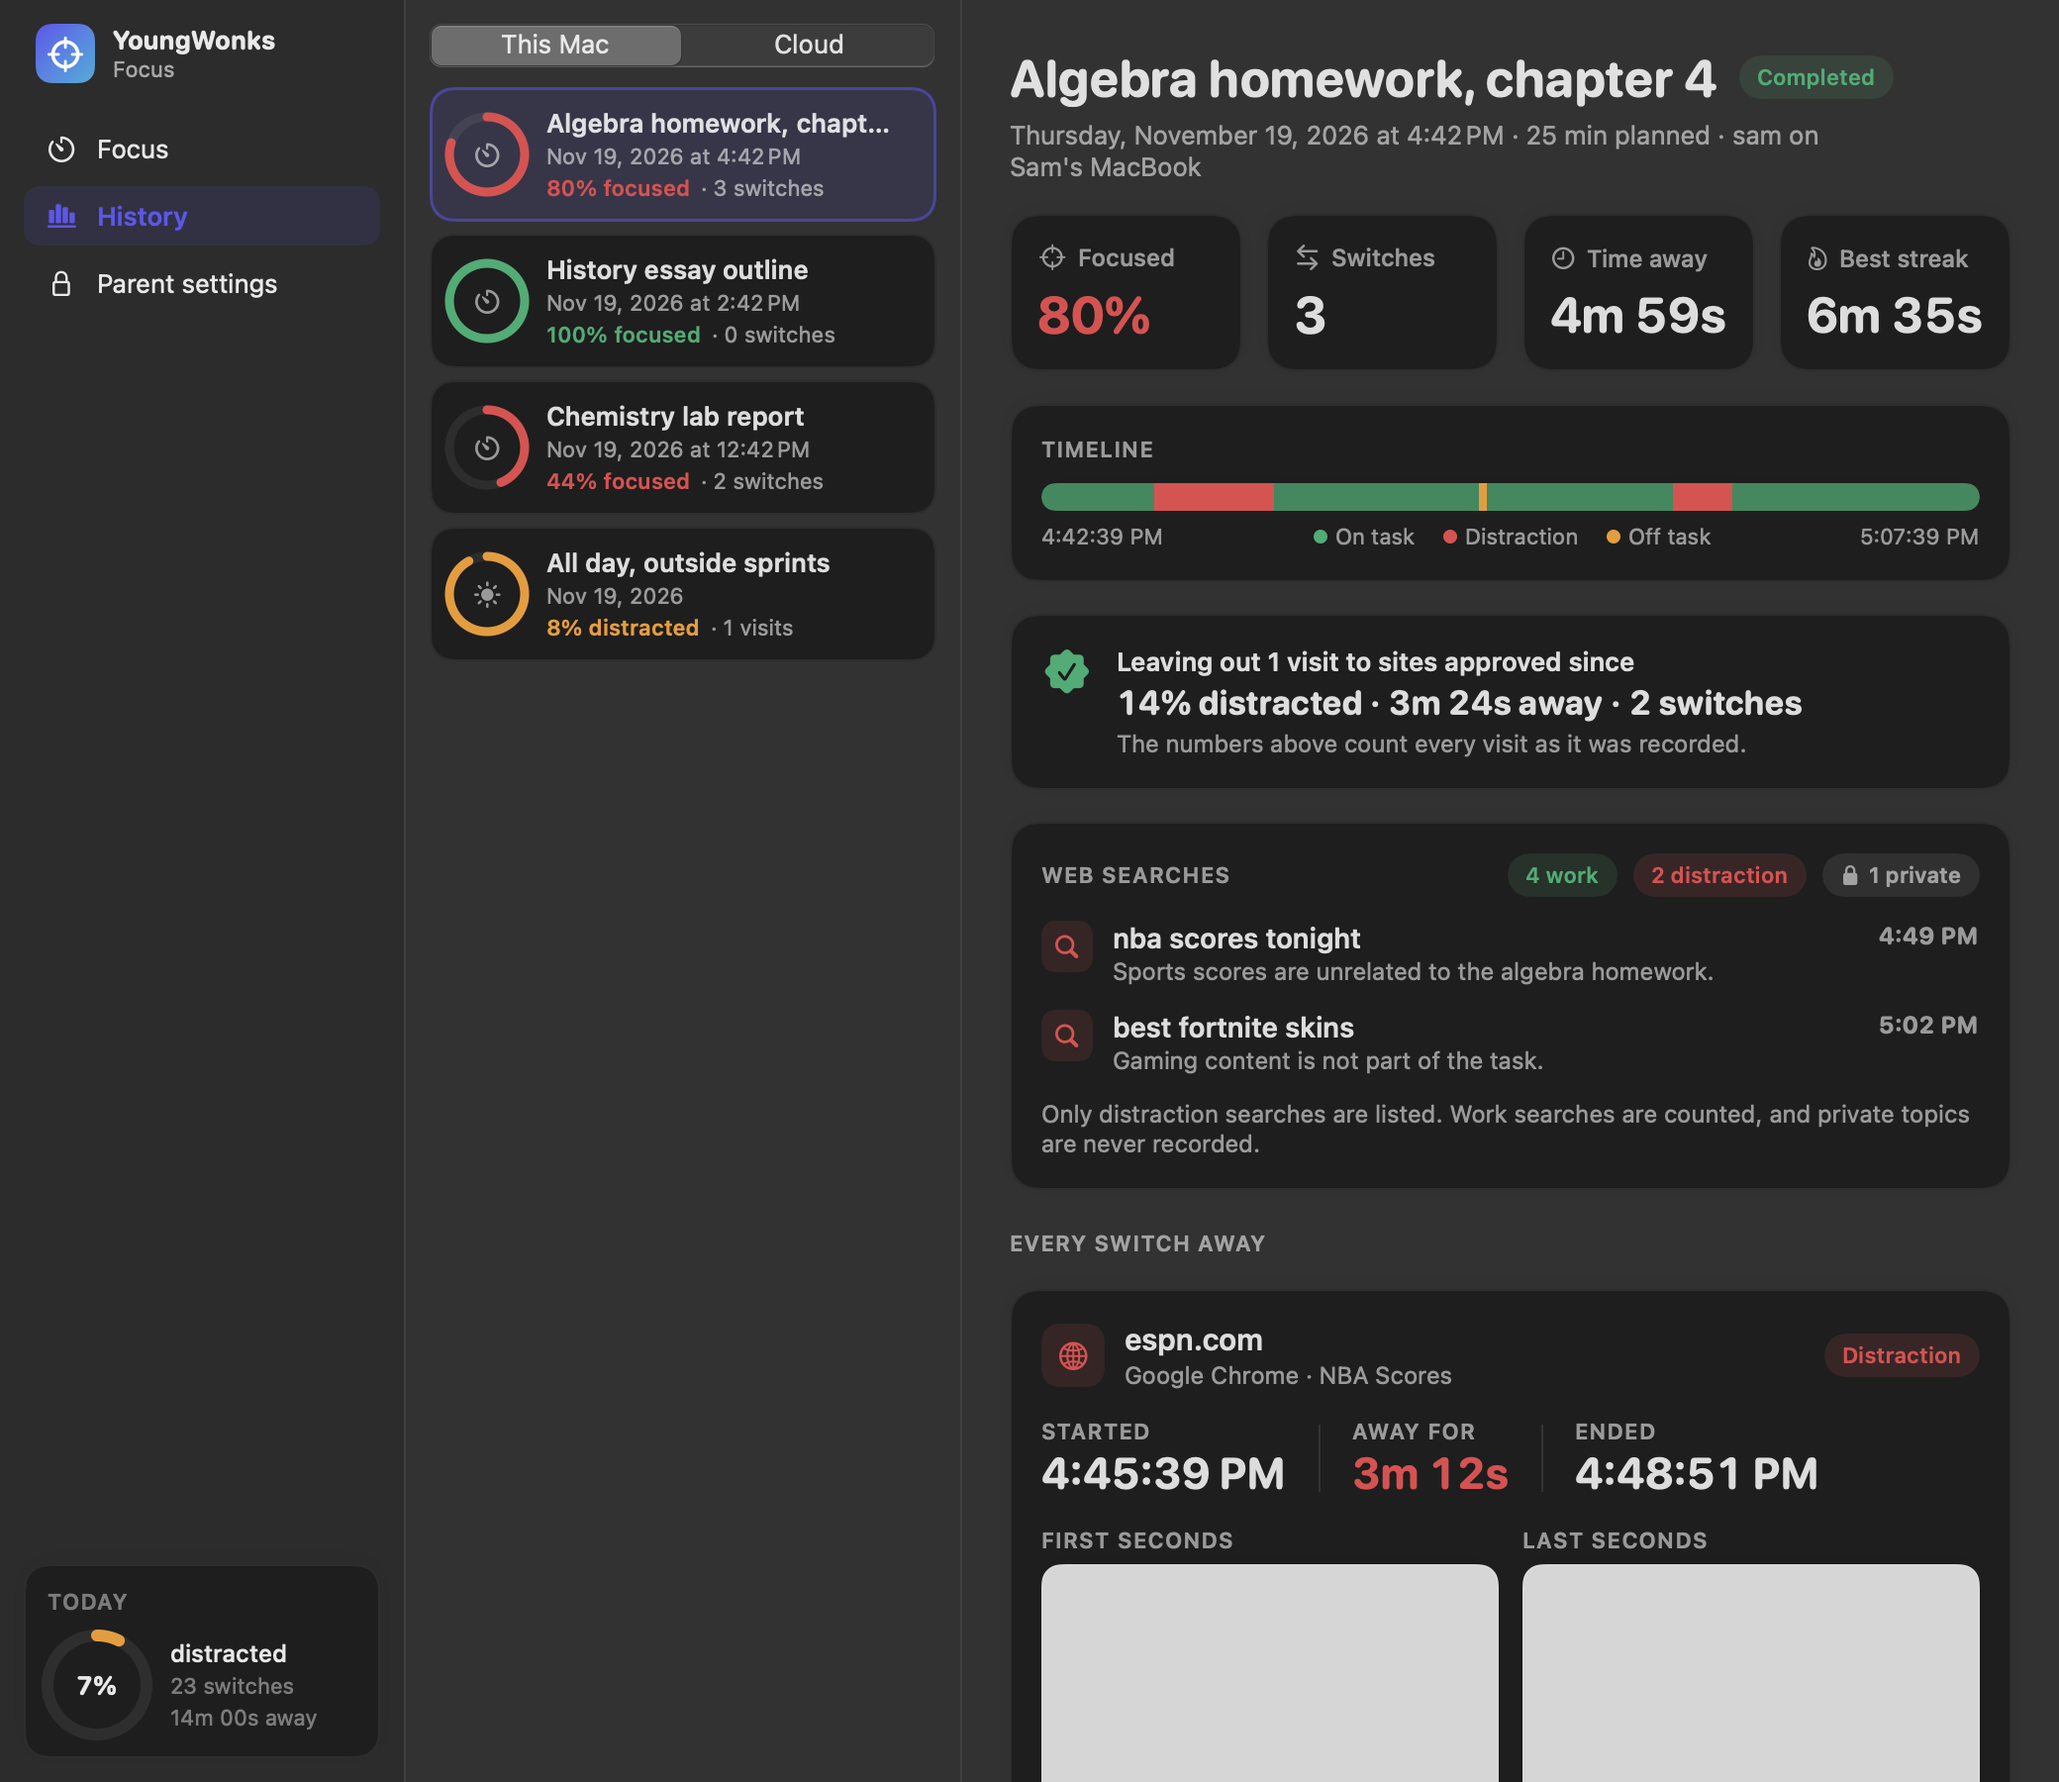
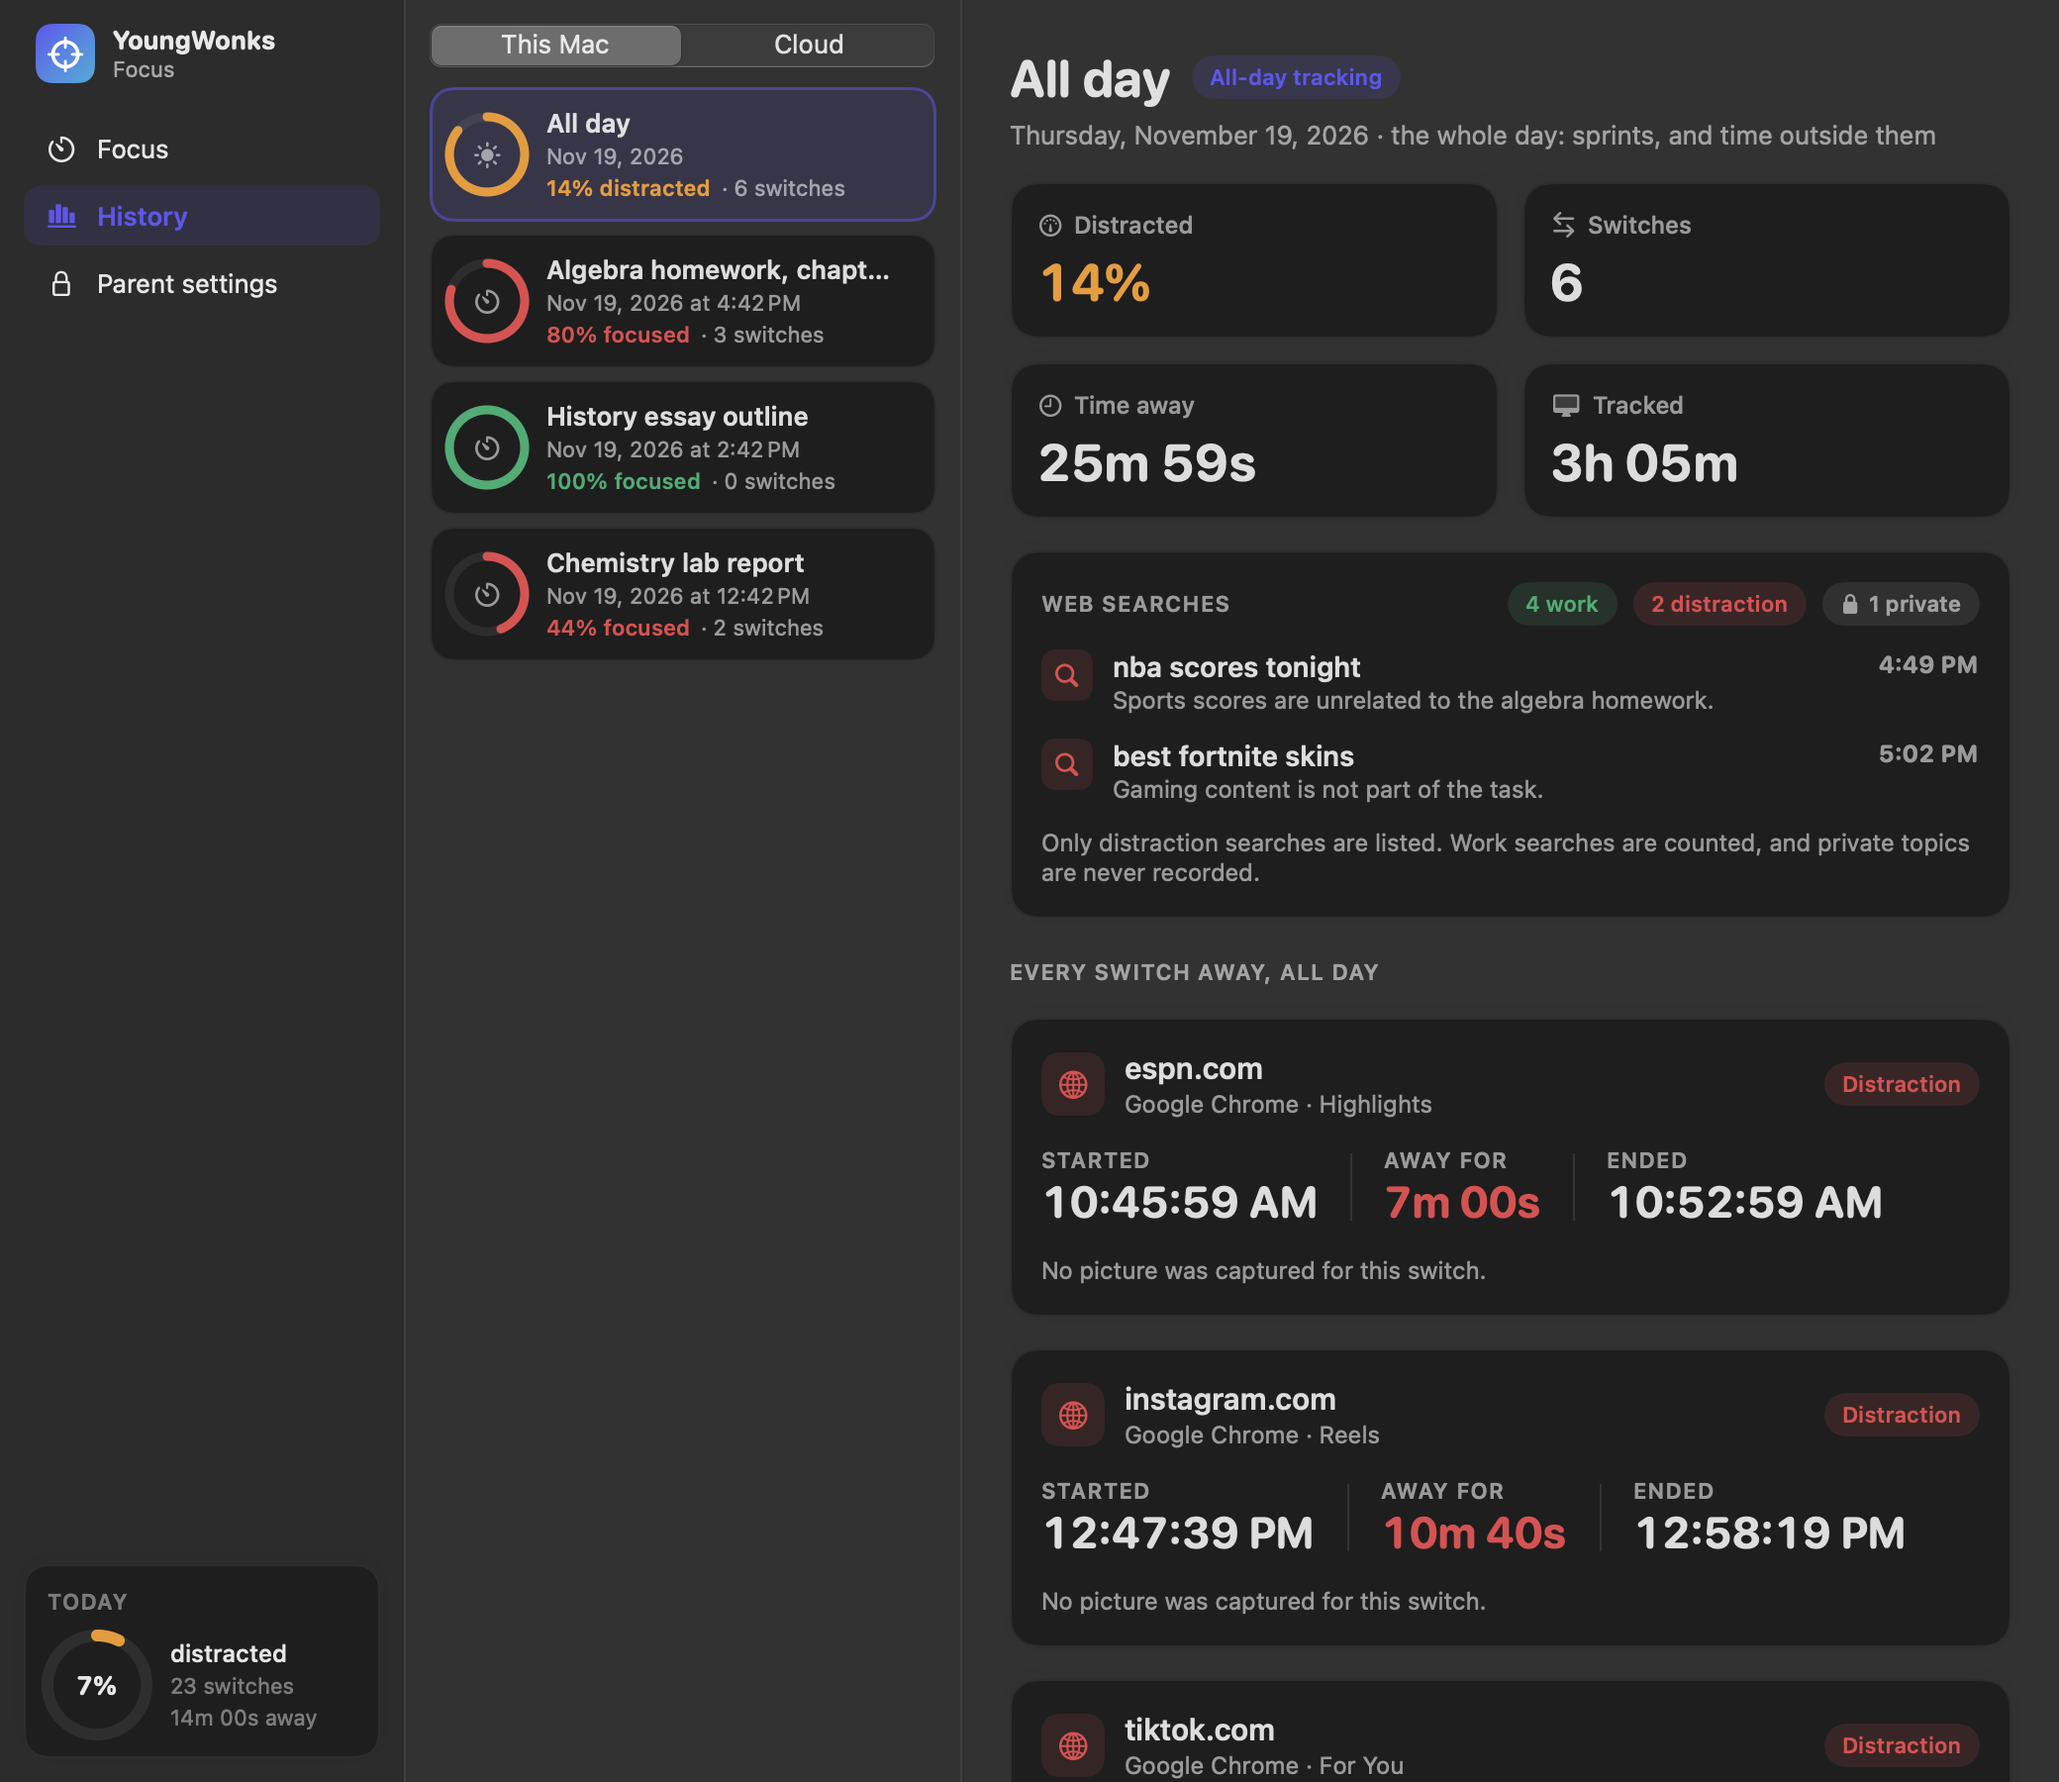
Make the History day entry cover the whole day, sprints included
"All day, outside sprints" becomes "All day": tracked time, time away,
switches and searches for the full day, combining that day's sprints with
the time outside them. A day with only sprints gets an entry too.

Also lays the stat tiles out two by two in a narrow window so their
titles are not cut off.

diff --git a/Sources/FocusSprint/HistoryView.swift b/Sources/FocusSprint/HistoryView.swift
@@ -135,7 +135,7 @@ struct SprintRow: View {
                 HStack(spacing: 5) {
                     Text(record.isAmbient ? "\(100 - record.focusPercent)% distracted" : "\(record.focusPercent)% focused")
                         .font(.system(size: 11, weight: .semibold)).foregroundStyle(levelColor(distracted))
-                    Text("· \(record.events.count) \(record.isAmbient ? "visits" : "switches")")
+                    Text("· \(record.events.count) switches")
                         .font(.system(size: 11)).foregroundStyle(.secondary)
                     if record.interrupted { Text("· interrupted").font(.system(size: 11)).foregroundStyle(Theme.bad) }
                 }
@@ -186,19 +186,14 @@ struct SprintDetail: View {
                     Text(subtitle).font(.system(size: 13)).foregroundStyle(.secondary)
                 }
 
-                LazyVGrid(columns: Array(repeating: GridItem(.flexible(), spacing: 12), count: 4), spacing: 12) {
-                    if record.isAmbient {
-                        StatTile(title: "Distracted", value: "\(100 - record.focusPercent)%", color: levelColor(distracted), icon: "gauge.medium")
-                        StatTile(title: "Visits", value: "\(record.events.count)", icon: "arrow.left.arrow.right")
-                        StatTile(title: "Time on them", value: Format.duration(record.awaySeconds), icon: "clock")
-                        StatTile(title: "Mac in use", value: Format.duration(record.elapsedSeconds), icon: "desktopcomputer")
-                    } else {
-                        StatTile(title: "Focused", value: "\(record.focusPercent)%", color: levelColor(distracted), icon: "scope")
-                        StatTile(title: "Switches", value: "\(record.events.count)", icon: "arrow.left.arrow.right")
-                        StatTile(title: "Time away", value: Format.duration(record.awaySeconds), icon: "clock")
-                        StatTile(title: "Best streak", value: Format.duration(record.longestFocusSeconds), icon: "flame")
+                // Four across when there is room, two by two in a narrow window, so titles are never cut off.
+                ViewThatFits(in: .horizontal) {
+                    HStack(spacing: 12) { ForEach(tiles.indices, id: \.self) { tiles[$0].frame(minWidth: 116) } }
+                    LazyVGrid(columns: Array(repeating: GridItem(.flexible(), spacing: 12), count: 2), spacing: 12) {
+                        ForEach(tiles.indices, id: \.self) { tiles[$0] }
                     }
                 }
+                .fixedSize(horizontal: false, vertical: true)
 
                 if !record.isAmbient {
                     VStack(alignment: .leading, spacing: 10) {
@@ -231,13 +226,13 @@ struct SprintDetail: View {
                 if record.events.isEmpty {
                     HStack(spacing: 10) {
                         Image(systemName: "checkmark.seal.fill").font(.system(size: 20)).foregroundStyle(Theme.good)
-                        Text(record.isAmbient ? "No visits to known distractions." : "No switches away during this sprint. Nice work.")
+                        Text(record.isAmbient ? "No distractions recorded this day." : "No switches away during this sprint. Nice work.")
                             .font(.system(size: 14, weight: .medium))
                         Spacer()
                     }
                     .card()
                 } else {
-                    SectionLabel(text: record.isAmbient ? "Every visit" : "Every switch away").padding(.top, 4)
+                    SectionLabel(text: record.isAmbient ? "Every switch away, all day" : "Every switch away").padding(.top, 4)
                     ForEach(record.events) { event in
                         // A combined day spans several stored sessions, so each event's files are looked up by its own session.
                         EventCard(event: event,
@@ -250,9 +245,23 @@ struct SprintDetail: View {
         }
     }
 
+    private var tiles: [StatTile] {
+        let distracted = 1 - Double(record.focusPercent) / 100
+        if record.isAmbient {
+            return [StatTile(title: "Distracted", value: "\(100 - record.focusPercent)%", color: levelColor(distracted), icon: "gauge.medium"),
+                    StatTile(title: "Switches", value: "\(record.events.count)", icon: "arrow.left.arrow.right"),
+                    StatTile(title: "Time away", value: Format.duration(record.awaySeconds), icon: "clock"),
+                    StatTile(title: "Tracked", value: Format.duration(record.elapsedSeconds), icon: "desktopcomputer")]
+        }
+        return [StatTile(title: "Focused", value: "\(record.focusPercent)%", color: levelColor(distracted), icon: "scope"),
+                StatTile(title: "Switches", value: "\(record.events.count)", icon: "arrow.left.arrow.right"),
+                StatTile(title: "Time away", value: Format.duration(record.awaySeconds), icon: "clock"),
+                StatTile(title: "Best streak", value: Format.duration(record.longestFocusSeconds), icon: "flame")]
+    }
+
     private var subtitle: String {
         if record.isAmbient {
-            return "\(record.start.startedAt.formatted(date: .complete, time: .omitted)) · visits to known distractions while no sprint was running"
+            return "\(record.start.startedAt.formatted(date: .complete, time: .omitted)) · the whole day: sprints, and time outside them"
         }
         let base = "\(record.start.startedAt.formatted(date: .complete, time: .shortened)) · \(record.start.plannedSeconds / 60) min planned · \(record.start.user) on \(record.start.device)"
         return record.interrupted ? base + " · the app was quit mid-sprint" : base

diff --git a/Tests/FocusSprintCoreTests/CoreTests.swift b/Tests/FocusSprintCoreTests/CoreTests.swift
@@ -83,6 +83,39 @@ final class CoreTests: XCTestCase {
         XCTAssertNil(q("https://notgoogle.com/search?q=hello"))
     }
 
+    func testAllDayRecordIncludesSprints() throws {
+        let dir = FileManager.default.temporaryDirectory.appendingPathComponent("fs-day-\(UUID().uuidString)")
+        defer { try? FileManager.default.removeItem(at: dir) }
+        let noon = Calendar.current.date(bySettingHour: 12, minute: 0, second: 0, of: Date(timeIntervalSince1970: 1_800_000_000))!
+        func write(_ id: String, kind: String?, offset: Double, elapsed: Double, away: Double, active: Double?) throws {
+            let folder = dir.appendingPathComponent(id)
+            try FileManager.default.createDirectory(at: folder, withIntermediateDirectories: true)
+            let start = SprintStart(id: id, device: "d", user: "u", task: id, plannedSeconds: Int(elapsed),
+                                    startedAt: noon.addingTimeInterval(offset), allowedApps: [], allowedBundleIds: [],
+                                    allowedDomains: [], captureMode: .screenshot, kind: kind)
+            try JSONCoding.encoder.encode(start).write(to: folder.appendingPathComponent("start.json"))
+            let end = SprintEnd(id: id, endedAt: noon.addingTimeInterval(offset + elapsed), status: .completed,
+                                focusedSeconds: elapsed - away, awaySeconds: away, switchCount: 1, activeSeconds: active)
+            try JSONCoding.encoder.encode(end).write(to: folder.appendingPathComponent("end.json"))
+            let event = DistractionEvent(id: id + "-e1", sprintId: id, seq: 1, startedAt: noon.addingTimeInterval(offset + 10),
+                                         endedAt: noon.addingTimeInterval(offset + 10 + away), durationSeconds: away, appName: "A",
+                                         bundleId: "a", title: "", url: nil, host: nil, category: .distraction, media: [])
+            try JSONCoding.encoder.encode(event).write(to: folder.appendingPathComponent("e1.json"))
+        }
+        try write("sprint", kind: nil, offset: 0, elapsed: 1500, away: 300, active: nil)
+        try write("outside", kind: "ambient", offset: 3600, elapsed: 1800, away: 100, active: 500)
+
+        let shown = SprintReader.listForDisplay(in: dir)
+        XCTAssertEqual(shown.count, 2) // the sprint, and one all-day record
+        let day = try XCTUnwrap(shown.first { $0.isAmbient })
+        XCTAssertEqual(day.start.task, "All day")
+        XCTAssertEqual(day.elapsedSeconds, 2000) // 1500 of sprint + 500 of Mac use outside it
+        XCTAssertEqual(day.awaySeconds, 400)
+        XCTAssertEqual(day.events.count, 2)
+        XCTAssertEqual(day.focusPercent, 80)
+        XCTAssertFalse(day.interrupted)
+    }
+
     func testContextKey() {
         let a = ctx("c", "Chrome", url: "https://www.instagram.com/a", browser: true)
         let b = ctx("c", "Chrome", url: "https://instagram.com/b", browser: true)

diff --git a/Sources/FocusSprintCore/Vault.swift b/Sources/FocusSprintCore/Vault.swift
@@ -183,18 +183,21 @@ public enum SprintReader {
         return out.sorted { $0.start.startedAt > $1.start.startedAt }
     }
 
-    /// Sprints as they are, plus one combined "All day" record per calendar day of outside-sprint tracking.
+    /// Sprints as they are, plus one "All day" record per calendar day that covers everything tracked
+    /// that day: the sprints and the time outside them.
     public static func listForDisplay(in sprintsDir: URL) -> [SprintRecord] {
         let all = list(in: sprintsDir)
         var out = all.filter { !$0.isAmbient }
         let calendar = Calendar.current
-        let byDay = Dictionary(grouping: all.filter(\.isAmbient)) { calendar.startOfDay(for: $0.start.startedAt) }
+        let byDay = Dictionary(grouping: all) { calendar.startOfDay(for: $0.start.startedAt) }
         let stamp = DateFormatter()
         stamp.dateFormat = "yyyyMMdd"
         for (day, parts) in byDay {
             let ordered = parts.sorted { $0.start.startedAt < $1.start.startedAt }
-            var record = ordered[ordered.count - 1]
-            record.start.task = "All day, outside sprints"
+            var record = ordered[0]
+            record.start.kind = "ambient"
+            record.start.task = "All day"
+            record.start.startedAt = day.addingTimeInterval(86399) // sorts the day summary above that day sprints
             record.end = nil
             record.events = ordered.flatMap(\.events).sorted { $0.startedAt < $1.startedAt }
             record.merged = ("day-" + stamp.string(from: day),
